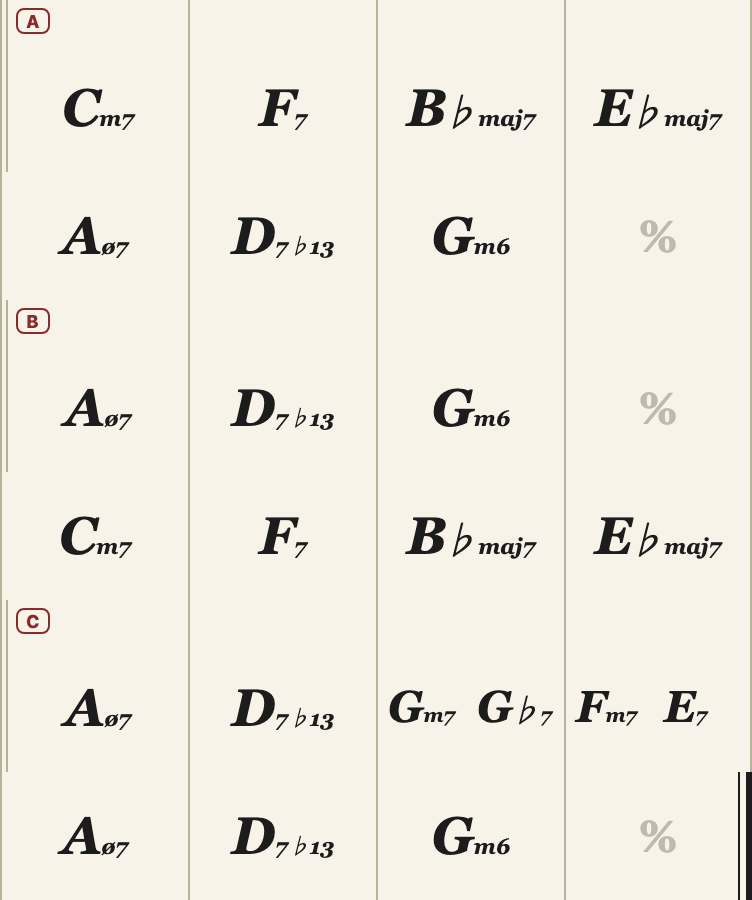
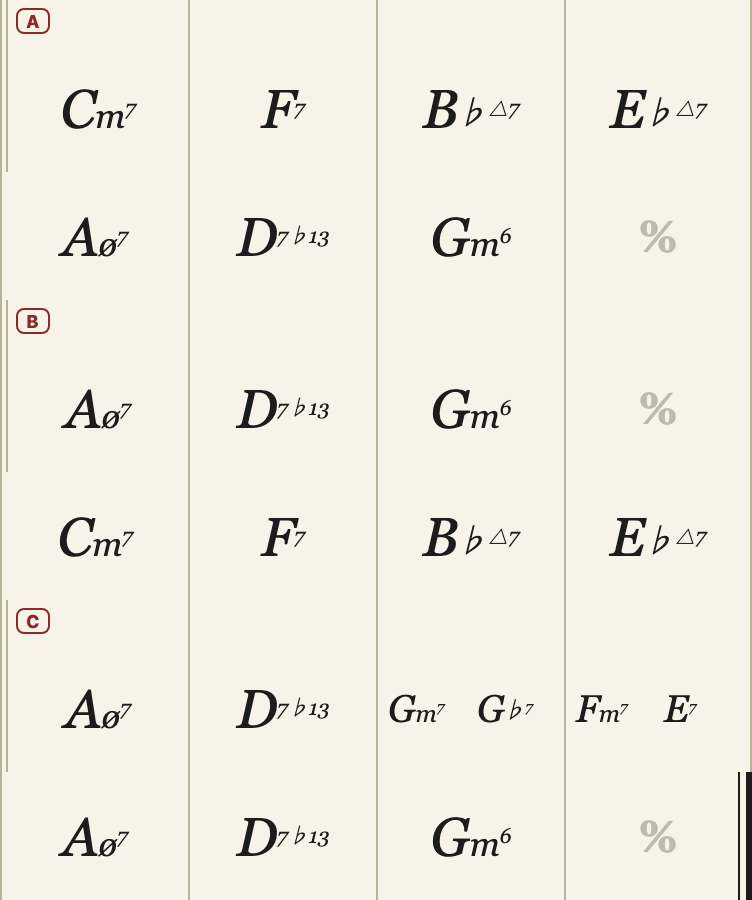
page grille épurée : la police de la capture, côte à côte avec la référence + Virtual Insanity

diff --git a/docs/plots/grille_epuree.html b/docs/plots/grille_epuree.html
@@ -23,8 +23,11 @@ details{margin-top:10px} summary{cursor:pointer;color:var(--faint);font-size:13.
 <p>Nouveau style de grille, <b>par défaut</b> : des barres de mesure verticales, rien d'horizontal. L'ancien (« Cells ») reste dans <b>Aa → Grid</b>.</p>
 <p class="faint">La capture de Louis est l'ancienne page statique de juillet (<a href="inferred_bye_bye_blackbird.html">inferred_bye_bye_blackbird.html</a>) — ce style n'existait plus dans l'app. Bye Bye Blackbird n'est pas dans la bibliothèque : Autumn Leaves (iReal) le remplace.</p>
 
-<h2>La référence</h2>
-<div class="ref"><img src="grille_epuree/reference_blackbird.jpg" alt="Capture iPhone de Louis, Bye Bye Blackbird"></div>
+<h2>La référence, et ce qu'on en a fait</h2>
+<div class="pair">
+<figure><figcaption>Ta capture (juillet)</figcaption><img src="grille_epuree/reference_blackbird.jpg" alt="Capture iPhone de Louis, Bye Bye Blackbird"></figure>
+<figure><figcaption><b>Aujourd'hui · Autumn Leaves</b></figcaption><img src="grille_epuree/autumn_apres_m.jpg" alt=""></figure>
+</div>
 
 <h2>Ce qui change</h2>
 <ul>
@@ -34,6 +37,7 @@ details{margin-top:10px} summary{cursor:pointer;color:var(--faint);font-size:13.
 <li>Rangées un peu plus hautes (+8 px) : c'est l'air qui sépare les lignes.</li>
 <li>Mesure jouée : une pastille teintée arrondie qui « pop », et la barre de droite qui s'allume en rouge.</li>
 <li>Fin du morceau : barre finale d'encre (fine + épaisse).</li>
+<li><b>La police des accords de la capture</b> : Georgia italique non grasse, Gm⁷ (petit m, 7 en exposant), F△⁷, D⁷ᵃˡᵗ, E♭⁷ ; plus petite dès deux accords dans la mesure. Seulement en « Clean » + notation « Normal » (Compact et Cells gardent l'ancienne).</li>
 </ul>
 
 <h2>Autumn Leaves — iPhone 390 px</h2>
@@ -56,6 +60,13 @@ details{margin-top:10px} summary{cursor:pointer;color:var(--faint);font-size:13.
 <figure><figcaption><b>Après · épurée</b></figcaption><img src="grille_epuree/standbyme_apres_m.jpg" alt=""></figure>
 </div>
 
+<h2>Virtual Insanity (iReal) — basses slash, sus, ♯5, ø, pédales</h2>
+<p class="faint">Le cas le plus dense : jusqu'à 4 accords par mesure, basses pendues (/G♭), D⁹ˢᵘˢ, B♭⁷♯⁵.</p>
+<div class="pair">
+<figure><figcaption>Avant · cells</figcaption><img src="grille_epuree/virtual_avant_m.jpg" alt=""></figure>
+<figure><figcaption><b>Après · épurée</b></figcaption><img src="grille_epuree/virtual_apres_m.jpg" alt=""></figure>
+</div>
+
 <details><summary>Les mêmes sur ordinateur (1100 px)</summary>
 <h2>Autumn Leaves</h2>
 <div class="pair"><figure><figcaption>Avant</figcaption><img src="grille_epuree/autumn_avant_d.jpg" alt=""></figure><figure><figcaption><b>Après</b></figcaption><img src="grille_epuree/autumn_apres_d.jpg" alt=""></figure></div>
@@ -63,13 +74,14 @@ details{margin-top:10px} summary{cursor:pointer;color:var(--faint);font-size:13.
 <div class="pair"><figure><figcaption>Avant</figcaption><img src="grille_epuree/lazy_avant_d.jpg" alt=""></figure><figure><figcaption><b>Après</b></figcaption><img src="grille_epuree/lazy_apres_d.jpg" alt=""></figure></div>
 <h2>Stand By Me</h2>
 <div class="pair"><figure><figcaption>Avant</figcaption><img src="grille_epuree/standbyme_avant_d.jpg" alt=""></figure><figure><figcaption><b>Après</b></figcaption><img src="grille_epuree/standbyme_apres_d.jpg" alt=""></figure></div>
+<h2>Virtual Insanity</h2>
+<div class="pair"><figure><figcaption>Avant</figcaption><img src="grille_epuree/virtual_avant_d.jpg" alt=""></figure><figure><figcaption><b>Après</b></figcaption><img src="grille_epuree/virtual_apres_d.jpg" alt=""></figure></div>
 </details>
 
-<h2>À trancher</h2>
+<h2>Tranché par Louis (2026-09-30)</h2>
 <ul>
-<li>Épurée par défaut : oui ?</li>
-<li>Accord seul centré dans sa mesure (comme la capture) ou calé à gauche comme avant ?</li>
-<li>+8 px par rangée : on voit moins de sections par écran. Garder ?</li>
+<li>Épurée par défaut, accord seul centré, rangées +8 px : gardés.</li>
+<li>La police des accords de la capture : faite (ci-dessus).</li>
 </ul>
-<p class="faint">Ouvrir dans l'app : <a href="/?open=ireal_autumn_leaves">Autumn Leaves</a> · <a href="/?open=min_bruno_mars_the_lazy_song_official_music_video">The Lazy Song</a> · <a href="/?open=min_ben_e_king_stand_by_me_audio">Stand By Me</a></p>
+<p class="faint">Ouvrir dans l'app : <a href="/?open=ireal_autumn_leaves">Autumn Leaves</a> · <a href="/?open=min_bruno_mars_the_lazy_song_official_music_video">The Lazy Song</a> · <a href="/?open=min_ben_e_king_stand_by_me_audio">Stand By Me</a> · <a href="/?open=ireal_virtual_insanity">Virtual Insanity</a></p>
 </main></body></html>
